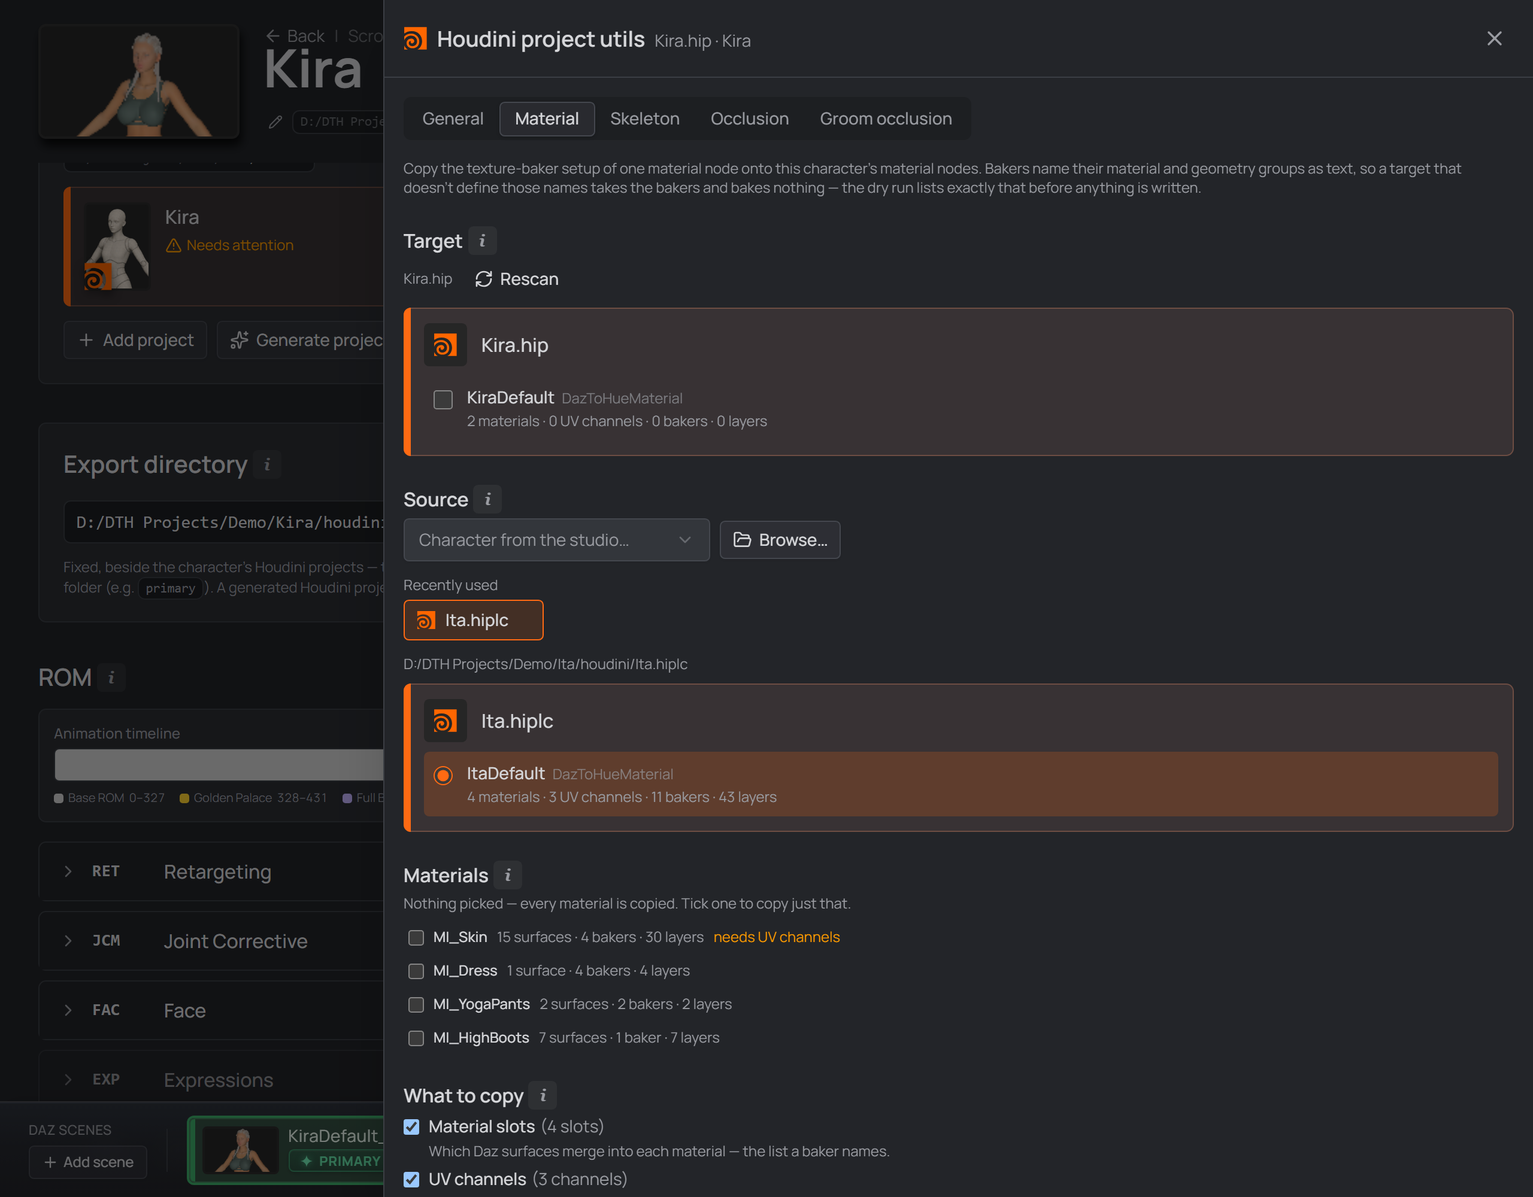
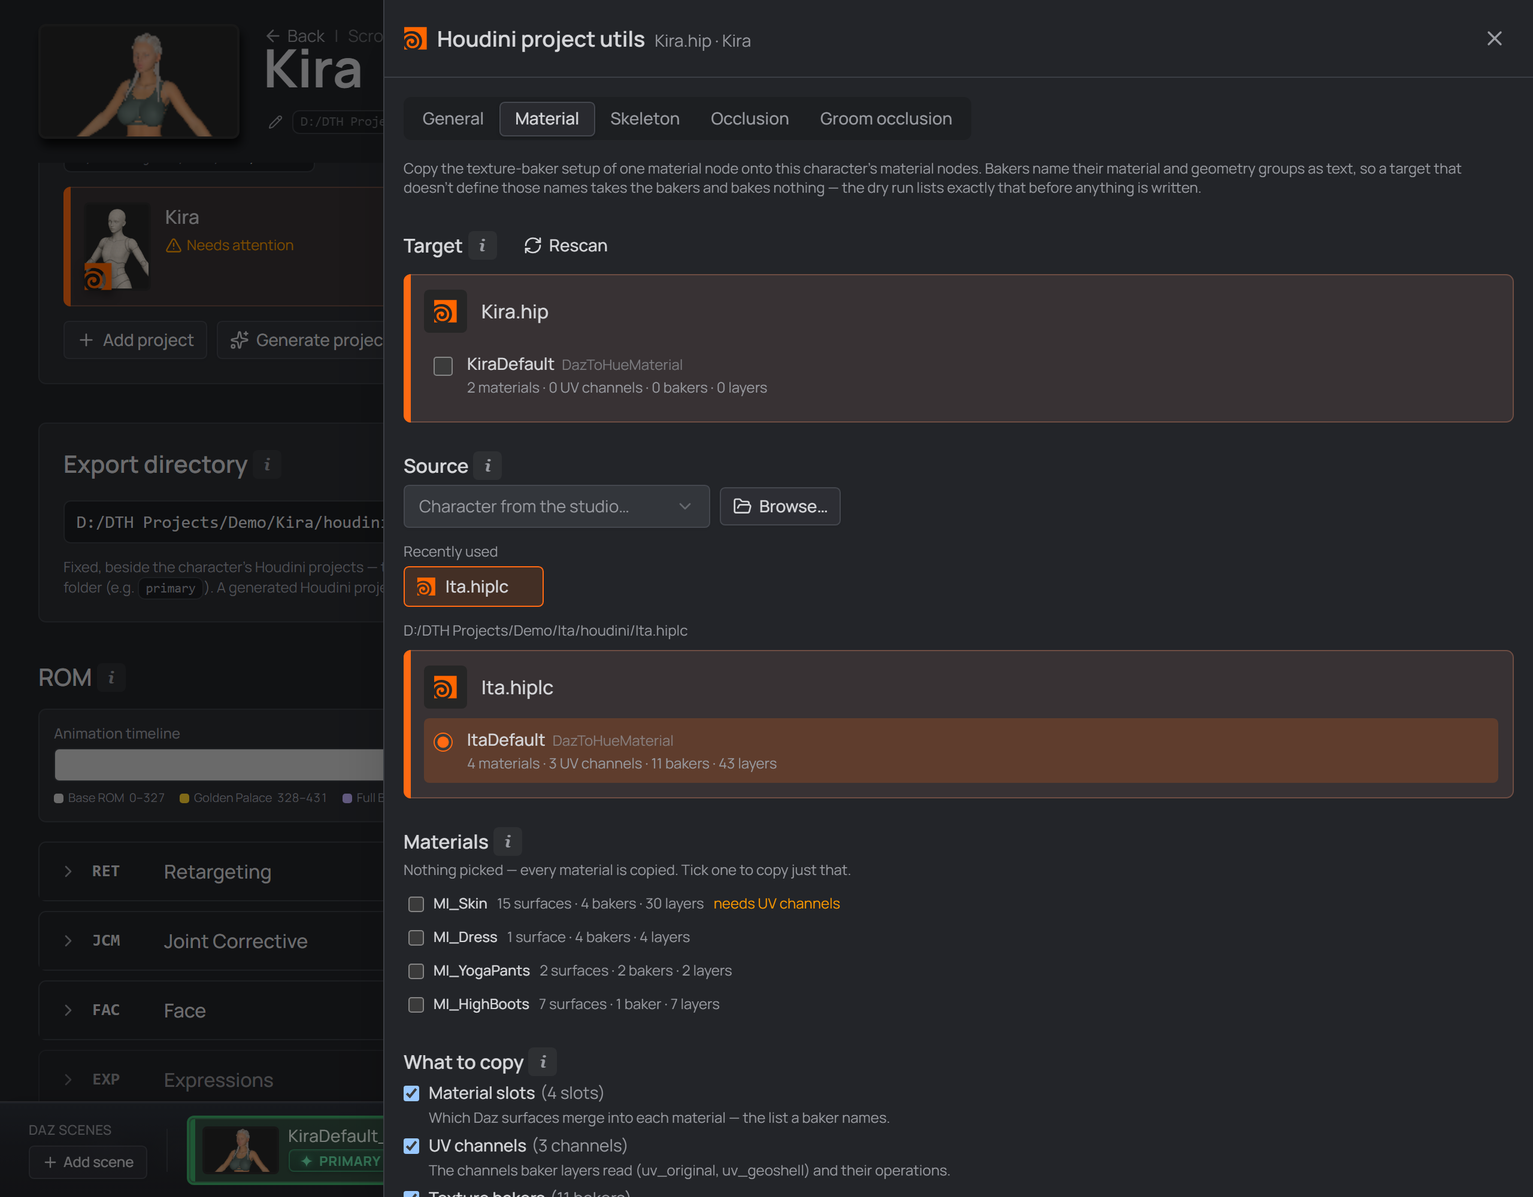
fix(web): finish scoping the Utils drawer — its prose, not just its data
Review of the scoping change found the data narrowed and the words left
behind. Everything here is copy, comments and docs, plus one piece of dead
code the screenshots exposed.

The strings that still described the character's whole set:

- Refresh assets' tooltip ran "on every project the scan could open".
- Repair's disabled reason claimed "every project already points $JOB…".
- The General footer read "Reading the projects…" while opening one.
- Fill network's block named "N project(s)" that can now only be this one.
- Both empty states said "No Houdini projects linked to this character" — a
  false explanation, because the project IS linked: it is the card the drawer
  was opened on. Nothing there means the scan came back without it.

The Target header printed the file name directly above a project card whose
heading is that same name, with the drawer title naming it a third time. The
line it replaced carried a COUNT, which the cards did not say. Dropped, and
Rescan moves up beside the label the way the General tab already does.

The guide kept the old model in the places the new paragraph did not reach:
the Target bullet still offered "this character's linked Houdini projects…
tick as many as you want", and Rescan still "reads every project, then reports
how many it read" — a count this branch deleted.

Then the screenshot that came back from `pnpm screenshots` showed the target
node UNTICKED under a caption saying it starts selected. It does not, and has
[…]

diff --git a/apps/web/src/components/character/houdini-utils-panel.tsx b/apps/web/src/components/character/houdini-utils-panel.tsx
@@ -425,7 +425,13 @@ export function HoudiniUtilsPanel({
   // The SOURCE side is deliberately still cross-project — copying a setup means
   // copying it FROM somewhere else, which is the one thing here that legitimately
   // names another project.
-  const targets = [targetHip]
+  //
+  // Kept as an ARRAY because everything below it — the scan call, the cache
+  // filter, the coverage check — speaks in file lists, and because a `''` path
+  // must resolve to "nothing to scan" rather than to a scan of the empty
+  // string: the caller only mounts this with a real card path, and the guards
+  // that read `targets.length` are what keep that from being an assumption.
+  const targets = targetHip ? [targetHip] : []
   const [targetScan, setTargetScan] = useState<ScanState>(EMPTY_SCAN)
   const [selectedTargets, setSelectedTargets] = useState<ReadonlySet<string>>(new Set())
 
@@ -624,23 +630,22 @@ export function HoudiniUtilsPanel({
     }
   }
 
-  // Read the character's projects when the drawer opens. Opening a `.hip` costs
-  // real seconds, so this deliberately does NOT re-run on every render — only on
-  // open, on an explicit rescan, and when the linked set changes.
+  // Read the project when the drawer opens. Opening a `.hip` costs real seconds,
+  // so this deliberately does NOT re-run on every render — only on open, on an
+  // explicit rescan, and if the target changes.
+  //
+  // It does NOT preselect the target's nodes, and the drawer is careful to
+  // promise that nowhere. It used to: opening from a card ticked that project's
+  // nodes, back when the drawer opened straight onto Material (#690). Two
+  // changes since then made that unobservable — every tab switch clears the
+  // selection, because it is per node KIND (#691), and the drawer now lands on
+  // General, which shows no node list at all (#706). So the only tick a
+  // transfer tab can ever show is one the USER made, which is also the right
+  // default for something that writes to a `.hip`: the run's targets are chosen,
+  // not inherited.
   useEffect(() => {
     if (!open) return
-    void (async () => {
-      const projects = await loadCachedTargets()
-      // Every node of the project starts ticked. There is only one project now,
-      // so this is no longer "find the card's own project among the others" —
-      // it is simply "select what this drawer is for".
-      const match = projects.find(
-        (p) => normalizePath(p.hipPath).toLowerCase() === normalizePath(targetHip).toLowerCase(),
-      )
-      if (match) {
-        setSelectedTargets(new Set(match.nodes.map((n) => nodeKey(match.hipPath, n.path))))
-      }
-    })()
+    void loadCachedTargets()
     // eslint-disable-next-line react-hooks/exhaustive-deps
   }, [open, targetsKey])
 
@@ -787,14 +792,17 @@ export function HoudiniUtilsPanel({
 
   // Target refs for the transfer, minus the source node itself.
   //
-  // Filtered to the ACTIVE KIND. The selection is preseeded with every node of
-  // the card the drawer was opened from — all kinds at once — and a project
-  // typically holds a material, a skeleton and an occlusion node, so an
+  // Filtered to the ACTIVE KIND. The selection USED to be preseeded with every
+  // node of the card the drawer was opened from — all kinds at once — and a
+  // project typically holds a material, a skeleton and an occlusion node, so an
   // occlusion run was being pointed at all three ("3 target nodes selected"
   // under a single ticked box). The Python refuses a node of the wrong type per
   // target, so nothing was ever written to one; the count and the report were
   // the lie. The node LIST is filtered by kind already — this makes the run
-  // agree with what the user can actually see and tick.
+  // agree with what the user can actually see and tick. The preseed is gone now
+  // (see the open effect), so the filter is a belt to that brace rather than the
+  // only thing holding the count honest: keep it, because it is what guarantees
+  // the count can never outgrow the visible list again.
   const targetRefs = useMemo(() => {
     const refs: Array<{ hipPath: string; nodePath: string }> = []
     for (const project of targetScan.projects) {
@@ -1412,18 +1420,22 @@ export function HoudiniUtilsPanel({
 
             {/* ---------------------------------------------------------- target */}
             <section>
-              <Label className="mb-1 flex w-fit items-center gap-1 text-base font-semibold">
-                Target
-                <InfoPopup label="Target — more information">
-                  The DazToHue material nodes in <strong>this</strong> project. Select every node
-                  that should receive the copied bakers. Utils act on the one project you opened
-                  them from — to work on another, open its own card&apos;s Utils.
-                </InfoPopup>
-              </Label>
-              <div className="mb-2 flex items-center gap-2">
-                <span className="truncate text-xs text-muted-foreground" title={targetHip}>
-                  {fileName(targetHip)}
-                </span>
+              {/* Title + Rescan on one line, the shape the General tab's own
+                  heading has. The file name is deliberately NOT printed here:
+                  the drawer title carries it, and the project card immediately
+                  below prints it again as its heading — three copies of one
+                  name inside 200px, where the line used to carry a COUNT of
+                  the character's projects and so said something the cards
+                  didn't. */}
+              <div className="mb-2 flex flex-wrap items-center gap-x-3 gap-y-1">
+                <Label className="flex w-fit items-center gap-1 text-base font-semibold">
+                  Target
+                  <InfoPopup label="Target — more information">
+                    The DazToHue material nodes in <strong>this</strong> project. Select every node
+                    that should receive the copied bakers. Utils act on the one project you opened
+                    them from — to work on another, open its own card&apos;s Utils.
+                  </InfoPopup>
+                </Label>
                 <Button
                   variant="ghost"
                   size="sm"
@@ -1440,6 +1452,10 @@ export function HoudiniUtilsPanel({
                 selected={selectedTargets}
                 disabledKey={selectedSource}
                 onToggle={toggleTarget}
+                // Not "no projects linked": this one IS linked — it is the card
+                // the drawer was opened on. An empty list here means the scan
+                // came back without it.
+                empty="The scan returned nothing for this project — try Rescan."
               />
             </section>
 
@@ -1855,7 +1871,7 @@ export function HoudiniUtilsPanel({
                 — and each button still carries its own reason in its tooltip. */}
             <span className="mr-auto text-xs text-muted-foreground">
               {targetScan.loading
-                ? 'Reading the projects…'
+                ? 'Reading the project…'
                 : fixesAvailable === 0
                   ? 'Nothing to fix — every check already passes.'
                   : `${fixesAvailable} of 3 checks need fixing`}
@@ -1870,8 +1886,8 @@ export function HoudiniUtilsPanel({
               disabled={busy || refreshTargets.length === 0}
               title={
                 refreshTargets.length === 0
-                  ? 'No project could be read'
-                  : 'Run the DazToHue shelf’s own Refresh Assets on every project the scan could open'
+                  ? 'The project could not be read'
+                  : 'Run the DazToHue shelf’s own Refresh Assets on this project'
               }
               onClick={() => {
                 setActionReport(null)
@@ -1889,7 +1905,7 @@ export function HoudiniUtilsPanel({
                 !charFolder
                   ? 'The character folder could not be resolved'
                   : staleSettingProjects.length === 0
-                    ? 'Nothing differs — every project already points $JOB at the character folder and runs at 30 fps'
+                    ? 'Nothing differs — this project already points $JOB at the character folder and runs at 30 fps'
                     : undefined
               }
               onClick={() => {
@@ -1919,7 +1935,7 @@ export function HoudiniUtilsPanel({
               disabled={busy || prefillTargets.length === 0 || !projectId}
               title={
                 prefillBlockedByJob > 0
-                  ? `Repair the project settings first — the values are anchored on $JOB, so ${prefillBlockedByJob} project(s) would get paths anchored on the wrong folder, or on none.`
+                  ? 'Repair the project settings first — the values are anchored on $JOB, so this project would get paths anchored on the wrong folder, or on none.'
                   : prefillTargets.length === 0
                     ? 'Nothing blank the studio has an answer for'
                     : undefined
@@ -2508,8 +2524,11 @@ function GeneralTab({
           {scan.error}
         </p>
       ) : scan.projects.length === 0 ? (
+        // The drawer always HAS a project — it is the card its button was
+        // pressed on — so "none linked" would be a false explanation. Nothing
+        // here means the scan came back without it.
         <p className="rounded-md border border-dashed p-3 text-xs text-muted-foreground">
-          No Houdini projects linked to this character.
+          The scan returned nothing for this project — try Rescan.
         </p>
       ) : (
         <div className="space-y-3">

diff --git a/apps/web/smoke/houdini-occlusion-tabs.smoke.ts b/apps/web/smoke/houdini-occlusion-tabs.smoke.ts
@@ -43,9 +43,11 @@ function node(
   }
 }
 
-/** A material node in the SAME project — the drawer preselects every node of
- *  the card it was opened from, all kinds at once, so this is what used to be
- *  counted into an occlusion run. */
+/** A material node in the SAME project — the drawer used to preselect every
+ *  node of the card it was opened from, all kinds at once, so this is what used
+ *  to be counted into an occlusion run. The preseed is gone (#817), but the
+ *  node stays here: what this spec pins is that the count follows the ACTIVE
+ *  kind, and it can only pin that with a wrong-kind node present to be ignored. */
 const MATERIAL = node('material', 'DazToHueMaterial', [])
 const OCCLUSION = node('occlusion', 'DazToHueOcclusion', [
   { key: 'visualise', label: 'Visualise', count: 2 },
@@ -192,11 +194,13 @@ test('the confirm dialog offers no material knobs on an occlusion run', async ({
 })
 
 test('the target count is the ACTIVE kind only, not every node of the project', async ({ page }) => {
-  // The drawer preselects every node of the card it was opened from — all kinds
-  // at once — so an occlusion run counted the material node too: "3 target
-  // nodes selected" under one visible ticked box. The Python refuses a
+  // The drawer used to preselect every node of the card it was opened from —
+  // all kinds at once — so an occlusion run counted the material node too: "3
+  // target nodes selected" under one visible ticked box. The Python refuses a
   // wrong-typed node per target, so nothing was ever written to one; the count
-  // and the report were the lie.
+  // and the report were the lie. The preseed is gone (#817), so this now guards
+  // the remaining half: `targetRefs` filters by the ACTIVE kind, and the count
+  // it feeds may never name a node the tab isn't showing.
   const drawer = await openDrawer(page)
   await drawer.getByRole('tab', { name: 'Occlusion', exact: true }).click()
   await drawer.getByRole('checkbox', { name: /DazToHueOcclusion/ }).first().check()

diff --git a/apps/web/src/components/houdini-projects-field.tsx b/apps/web/src/components/houdini-projects-field.tsx
@@ -205,8 +205,9 @@ export function HoudiniProjectsField({
   // hand-linked ones stay unlink-only like before.
   const [keepFiles, setKeepFiles] = useState(true)
 
-  // The Houdini project whose Utils drawer is open ('' = closed). The path also
-  // seeds the drawer's target preselection.
+  // The Houdini project whose Utils drawer is open ('' = closed). The path is
+  // the drawer's whole SCOPE, not just a preselection: utils are per project,
+  // so everything in there acts on this `.hip` alone.
   const [utilsFor, setUtilsFor] = useState('')
 
   // A project pending the unlink confirm. Houdini projects are only ever linked

diff --git a/docs/guide/houdini-utils.md b/docs/guide/houdini-utils.md
@@ -36,9 +36,10 @@ hand.
   <sub><em>The Utils drawer: this project's nodes as targets, a browsed project as the source, and what travels.</em></sub>
 </p>
 
-- **Target** — this character's linked Houdini projects, with every DazToHue
-  material node found in each. Tick as many as you want; the card you opened
-  Utils from starts selected.
+- **Target** — the DazToHue material nodes in **this** project, the one whose
+  card you opened Utils from. Tick the ones that should receive the copy;
+  nothing is ticked for you, because this writes to the project. To copy into a
+  different project, open that card's Utils.
 
   **Network boxes are picked up if you use them.** Once a project holds more
   than one DTH network, the usual way to keep them apart is to wrap each in a
@@ -193,9 +194,9 @@ Only paths **under** your Daz library are rewritten. A texture living somewhere
 else can't be made portable, so it stays absolute and the report lists it — the
 copy is only as movable as those paths.
 
-Every project the transfer writes is saved once. **Close the target projects in
-Houdini first** — Houdini writes the entire scene when you save, so an open copy
-would overwrite the transfer.
+The transfer saves the target project once — the source is only read. **Close
+that project in Houdini first** — Houdini writes the entire scene when you save,
+so an open copy would overwrite the transfer.
 
 > **Every run that writes takes a backup first**, and you never have to think
 > about it: one rolling `backup/<name>_dthbak.hiplc` beside Houdini's own,
@@ -374,12 +375,11 @@ same step [Generate project](./06-into-houdini.md#generate-the-houdini-project-a
 takes). It is skipped when the export files aren't on disk yet: there is nothing
 to load.
 
-**Repair project settings** is enabled only when at least one project actually
-differs, and it touches only those — a project already on the right folder *and*
-the right timeline is listed and left alone, so running it twice rewrites nothing
-the second time. The two values are judged separately: a project whose `$JOB` is
-fine and whose timeline is 24 gets its timeline written and nothing else, and the
-report says which of them moved. It offers the same **Dry run** as the transfer,
+**Repair project settings** is enabled only when the project actually differs —
+one already on the right folder *and* the right timeline leaves the button dead,
+so running it twice rewrites nothing the second time. The two values are judged
+separately: a project whose `$JOB` is fine and whose timeline is 24 gets its
+timeline written and nothing else, and the report says which of them moved. It offers the same **Dry run** as the transfer,
 and the same backup before saving. A value the scan couldn't read is never
 repaired: it is *unknown*, not wrong.
 
@@ -414,12 +414,11 @@ installed for the Houdini version the studio is pointed at.
 
 Like [Generate project](./06-into-houdini.md#generate-the-houdini-project-automatically),
 this runs Houdini's `hython`, so it needs the **Houdini installation folder**
-and its matching documents folder in Settings. The drawer scans when it opens
-and after a run, and a project is only re-read when something it depends on
-changed — so coming back to projects nobody touched costs nothing. Reading a
-`.hip` the first time takes a few seconds; a transfer rewrites its targets, so
-exactly those are read again and their neighbours aren't. One scan serves all
-three tabs — the `$JOB` and `$HIP` values are read in the same pass as the
+and its matching documents folder in Settings. The drawer scans the one project
+it was opened on — when it opens and again after a run — and only when something
+that project depends on changed, so coming back to one nobody touched costs
+nothing. Reading a `.hip` the first time takes a few seconds; a transfer
+rewrites it, so it is read once more afterwards. One scan serves all three tabs — the `$JOB` and `$HIP` values are read in the same pass as the
 nodes — so switching between General, Material and Skeleton is instant.
 
 **Installing a new DazToHue invalidates it.** What the scan remembers depends on
@@ -429,9 +428,9 @@ project that depended on it. Without that, a verdict phrased in the *old*
 release's vocabulary outlives the install that replaced it: a freshly installed
 DazToHue would keep being reported as the one it replaced.
 
-**Rescan re-reads everything.** The button bypasses the cache and reads every
-project with hython again, then reports how many it read — so a verdict you
-believe is wrong has a way out. (It used to be served by that same cache, which
+**Rescan re-reads the project.** The button bypasses the cache and opens the
+`.hip` with hython again, then says so — so a verdict you believe is wrong has a
+way out. (It used to be served by that same cache, which
 on a project that looked fresh made it indistinguishable from a dead button.)
 
 &nbsp;

diff --git a/.ai/architecture.md b/.ai/architecture.md
@@ -320,10 +320,15 @@ Three consequences worth knowing before touching this:
   button is on the card, not the section header), so `targets` is `[targetHip]`
   and not `character.houdiniProjects`. Everything downstream reads `targetScan`,
   so narrowing that input scopes the whole drawer: one project's checks, nodes
-  and repairs. Two traps: `fetchCachedHoudiniScans` answers for the character's
+  and repairs. Three traps: `fetchCachedHoudiniScans` answers for the character's
   WHOLE set, so its result must be filtered to the target before it is shown, or
-  the cache puts the other projects back on screen; and the transfer SOURCE stays
-  cross-project on purpose — copying a setup means copying it from somewhere else.
+  the cache puts the other projects back on screen; the transfer SOURCE stays
+  cross-project on purpose — copying a setup means copying it from somewhere else;
+  and **narrowing the data does not narrow the PROSE**. The tab's tooltips, empty
+  states and the guide were all written for a set ("on every project the scan
+  could open", "No Houdini projects linked to this character"), and each one
+  survives the code change as a confident false statement — the strings are part
+  of the scope, not decoration on it.
 - **The drawer reads the store** (`fetchCachedHoudiniScans`) **and scans only
   what it doesn't cover** — an outside-folder link (never swept), a `.hip` saved
   since the last sweep — so a partial cache never hides the project's nodes or

diff --git a/.ai/gotchas.md b/.ai/gotchas.md
@@ -946,6 +946,20 @@ current code before relying on details, but assume the *lesson* still holds.
 
 ## Web app
 
+- **A default set in an effect can be cancelled by a handler somewhere else in
+  the same component — and nothing fails when it is.** The Utils drawer ticked
+  the opened card's nodes on open (#690). #691 made every tab switch clear the
+  target selection (it is per node KIND), and #706 made the drawer land on
+  General, which shows no node list — so from #706 on, the only way to reach a
+  tickable list was through a switch that wiped the ticks first. The preselect
+  ran, wrote state nothing displayed, and was then thrown away, for four
+  releases, while its own comment AND the guide kept promising it. No test
+  caught it because every spec that needed a target ticked one itself. What
+  caught it was a REGENERATED SCREENSHOT: the guide shot showed the box empty
+  under a caption saying it starts selected. Two rules out of it — when a
+  feature's default lives in one place and its reset in another, one of them is
+  dead and only the rendered UI says which; and a screenshot suite is a
+  behaviour assertion, so read what comes out of it, don't just commit it.
 - **Every window loads the SAME document, so the start URL never says which
   project it is for.** The config window starts on `/` — which the Home route
   matches — and a runtime window (`WebviewUrl::App("index.html")`) on

diff --git a/.changeset/houdini-utils-single-project.md b/.changeset/houdini-utils-single-project.md
@@ -28,3 +28,9 @@ Two side effects worth knowing:
 - Copying one source setup into several projects in a single run is gone. It was
   only reachable by ticking targets across projects in a drawer opened from one
   of them — do it per project instead.
+
+The guide and the drawer's own tooltips have been corrected along with it: the
+**Target** list never actually pre-ticked anything (the drawer opens on General,
+and moving to a transfer tab clears the selection), so the guide no longer says
+it does — tick the nodes that should receive the copy, which is also the right
+default for something that writes to a `.hip`.
